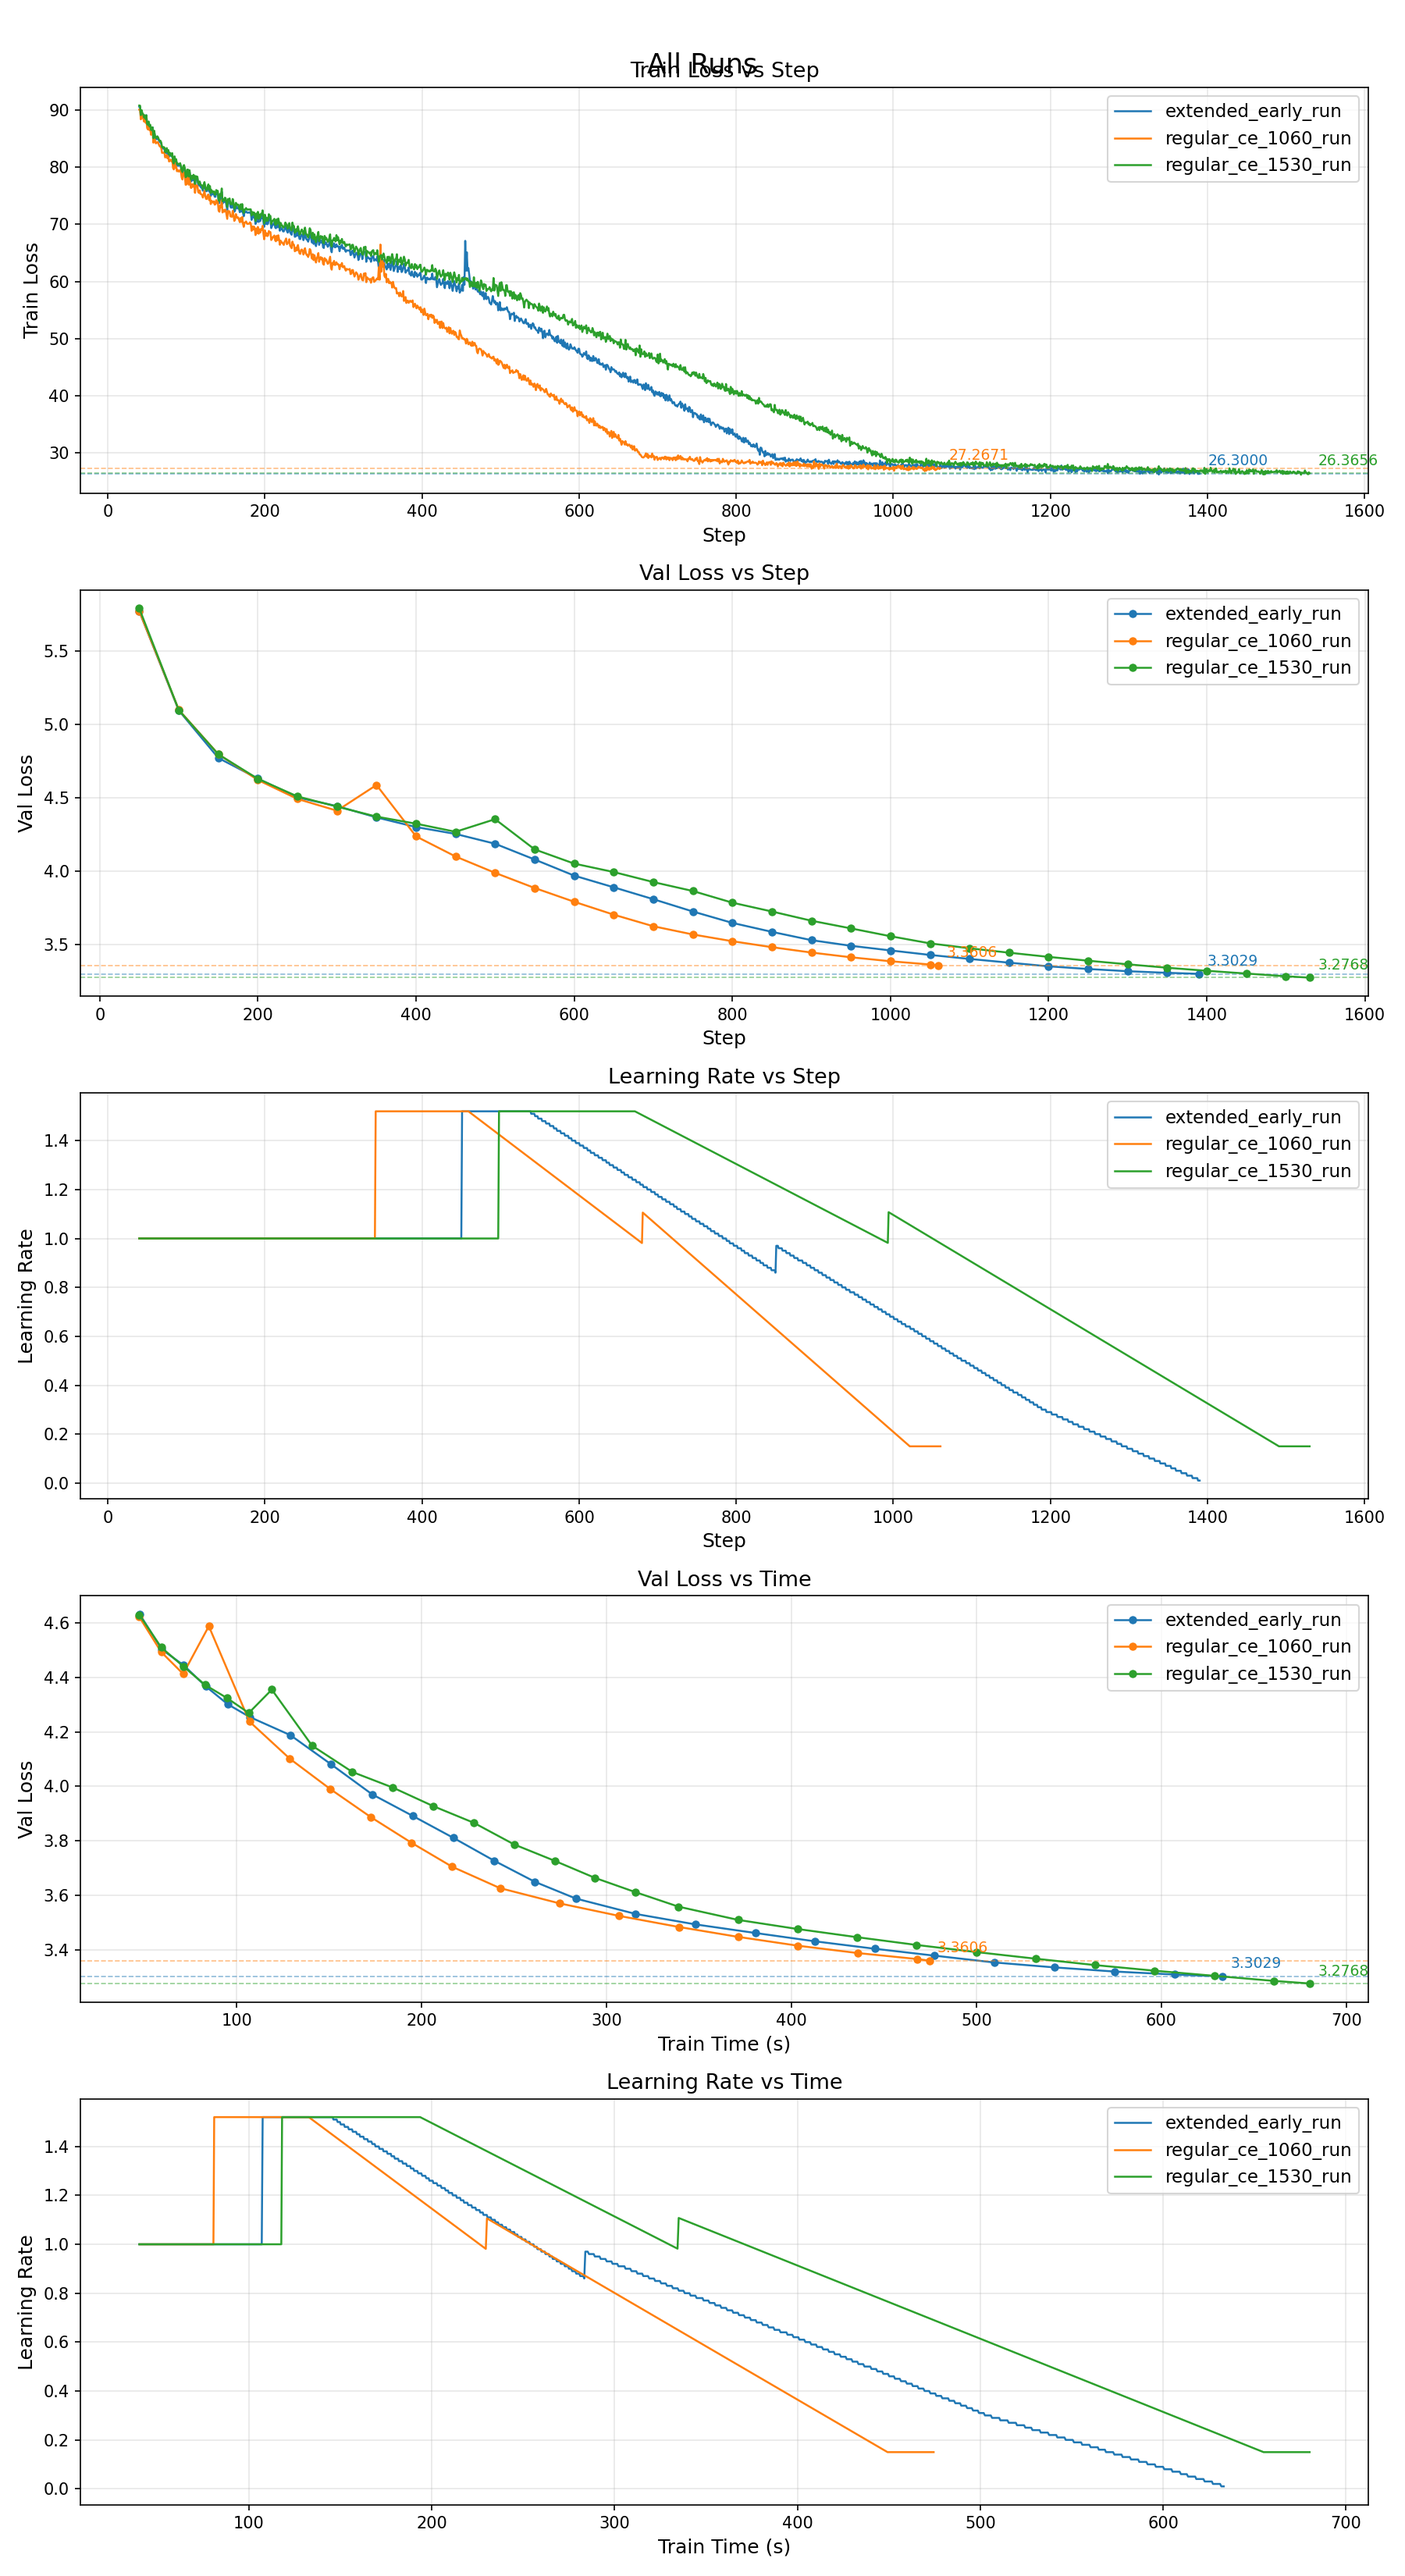
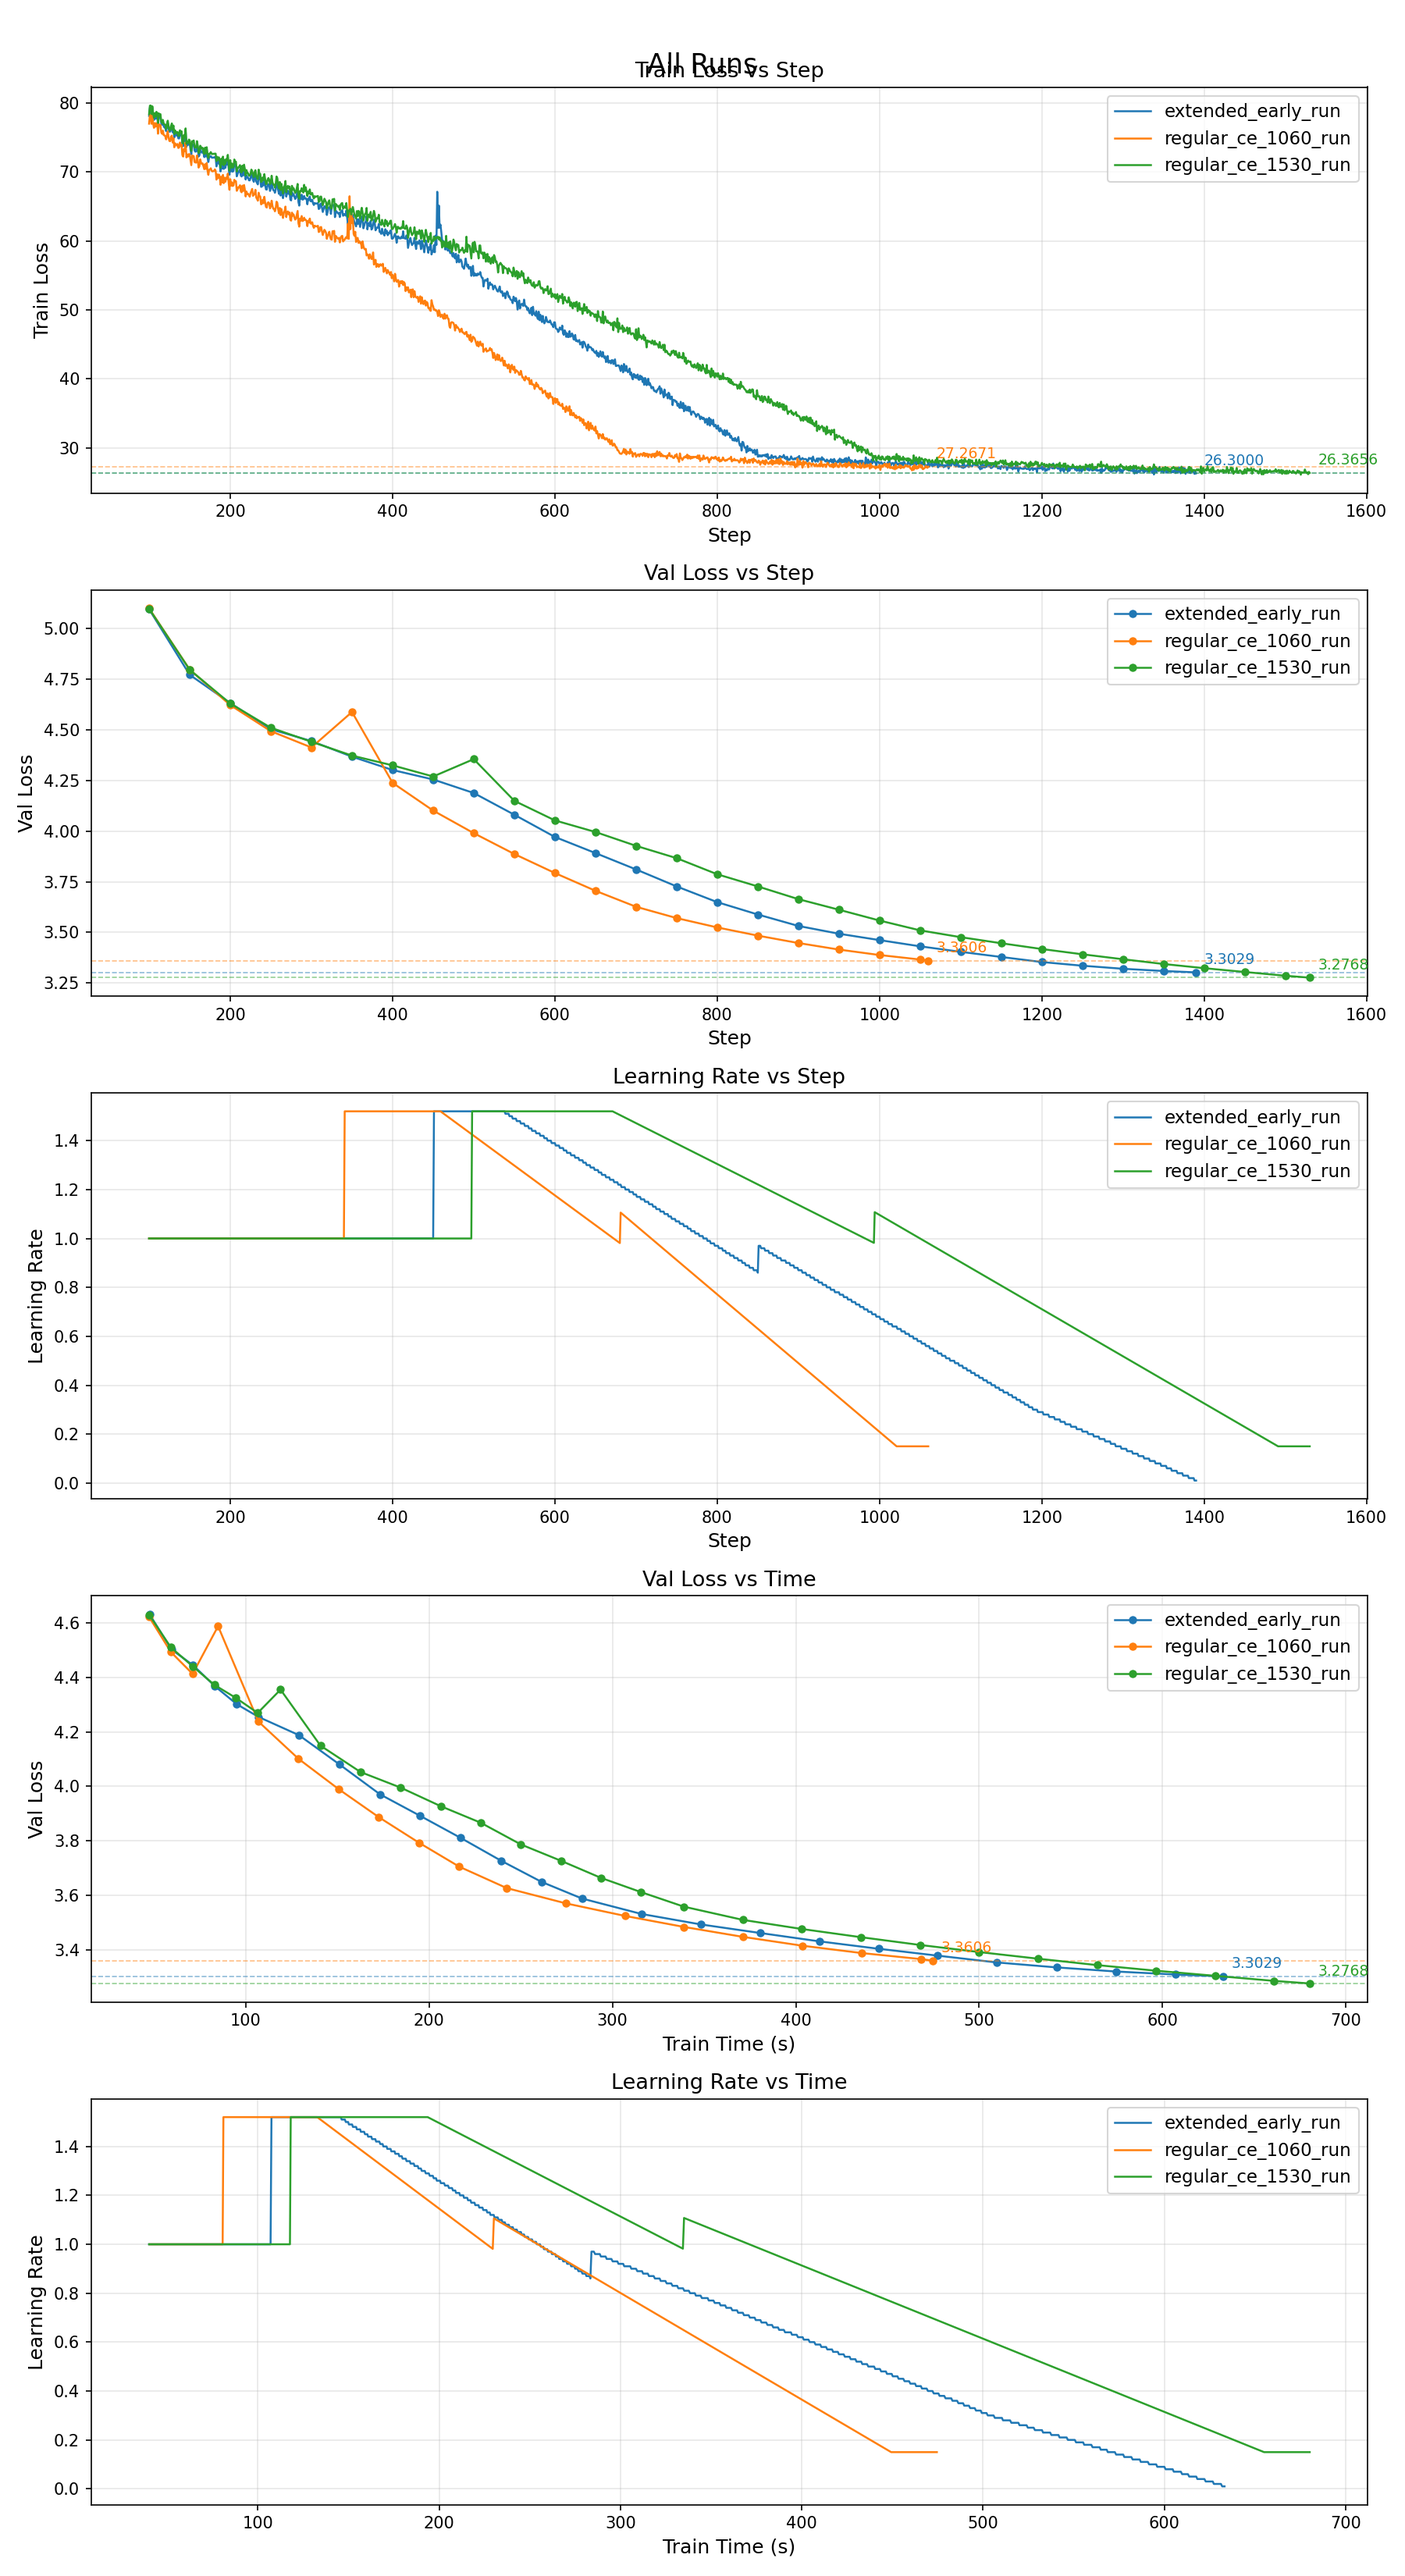
less steps yeah

diff --git a/utils/plot_val_vs_lr.py b/utils/plot_val_vs_lr.py
@@ -1,0 +1,74 @@
+"""Plot validation loss vs learning rate for comparing runs, split by stage."""
+
+import re
+import os
+import matplotlib.pyplot as plt
+
+LOG_DIR = os.path.join(os.path.dirname(__file__), "..", "logs")
+UTILS_DIR = os.path.join(os.path.dirname(__file__), "..", "utils")
+
+# (filename, label, stage_boundaries)
+# boundaries: [(start, end), ...] for stages w0, w1, w2, ext
+RUNS = [
+    ("regular_ce_1530_run.txt", "1530 ce", [(0, 497), (497, 993), (993, 1490), (1490, 1530)]),
+    ("regular_ce_1060_run.txt", "1060 ce", [(0, 340), (340, 680), (680, 1020), (1020, 1060)]),
+]
+
+STAGE_NAMES = ["w0", "w1", "w2", "ext"]
+
+
+def parse_log(filepath):
+    """Extract (step, val_loss, lr) tuples from log file."""
+    with open(filepath) as f:
+        lines = f.readlines()
+
+    data = []
+    for i, line in enumerate(lines):
+        # Match val_loss line: step:50/1530 val_loss:5.7883 ...
+        match = re.search(r"step:(\d+)/\d+\s+val_loss:([\d.]+)", line)
+        if match:
+            step = int(match.group(1))
+            val_loss = float(match.group(2))
+
+            # Get lr from next line (step+1)
+            if i + 1 < len(lines):
+                lr_match = re.search(r"lr:([\d.]+)", lines[i + 1])
+                if lr_match:
+                    lr = float(lr_match.group(1))
+                    data.append((step, val_loss, lr))
+
+    return data
+
+
+def filter_by_stage(data, start, end):
+    """Filter data points where start <= step < end."""
+    return [(step, val_loss, lr) for step, val_loss, lr in data if start <= step < end]
+
+
+fig, axes = plt.subplots(2, 2, figsize=(12, 10))
+axes = axes.flatten()
+
+for filename, label, boundaries in RUNS:
+    filepath = os.path.join(LOG_DIR, filename)
+    data = parse_log(filepath)
+
+    for idx, (start, end) in enumerate(boundaries):
+        stage_data = filter_by_stage(data, start, end)
+        if stage_data:
+            lrs = [d[2] for d in stage_data]
+            val_losses = [d[1] for d in stage_data]
+            axes[idx].plot(lrs, val_losses, marker="o", markersize=4, linewidth=1, label=label, alpha=0.7)
+
+for idx, name in enumerate(STAGE_NAMES):
+    axes[idx].set_xlabel("Learning Rate", fontsize=10)
+    axes[idx].set_ylabel("Validation Loss", fontsize=10)
+    axes[idx].set_title(f"Stage: {name}", fontsize=12)
+    axes[idx].legend()
+    axes[idx].grid(True, alpha=0.3)
+
+plt.suptitle("Validation Loss vs Learning Rate by Stage", fontsize=14)
+plt.tight_layout()
+
+out = os.path.join(UTILS_DIR, "val_vs_lr.png")
+plt.savefig(out, dpi=150)
+print(f"Saved {out}")

diff --git a/utils/plot_train_vs_lr.py b/utils/plot_train_vs_lr.py
@@ -1,0 +1,69 @@
+"""Plot train loss vs learning rate for comparing runs, split by stage."""
+
+import re
+import os
+import matplotlib.pyplot as plt
+
+LOG_DIR = os.path.join(os.path.dirname(__file__), "..", "logs")
+UTILS_DIR = os.path.join(os.path.dirname(__file__), "..", "utils")
+
+# (filename, label, stage_boundaries)
+# boundaries: [(start, end), ...] for stages w0, w1, w2, ext
+RUNS = [
+    ("regular_ce_1530_run.txt", "1530 ce", [(0, 497), (497, 993), (993, 1490), (1490, 1530)]),
+    ("regular_ce_1060_run.txt", "1060 ce", [(0, 340), (340, 680), (680, 1020), (1020, 1060)]),
+]
+
+STAGE_NAMES = ["w0", "w1", "w2", "ext"]
+
+
+def parse_log(filepath):
+    """Extract (step, train_loss, lr) tuples from log file."""
+    with open(filepath) as f:
+        lines = f.readlines()
+
+    data = []
+    for line in lines:
+        # Match train loss line: step:1/1530, ... train loss:151.5210,  lr:1.0
+        match = re.search(r"step:(\d+)/\d+,.*train loss:([\d.]+),\s+lr:([\d.]+)", line)
+        if match:
+            step = int(match.group(1))
+            train_loss = float(match.group(2))
+            lr = float(match.group(3))
+            data.append((step, train_loss, lr))
+
+    return data
+
+
+def filter_by_stage(data, start, end):
+    """Filter data points where start <= step < end."""
+    return [(step, train_loss, lr) for step, train_loss, lr in data if start < step < end]
+
+
+fig, axes = plt.subplots(2, 2, figsize=(12, 10))
+axes = axes.flatten()
+
+for filename, label, boundaries in RUNS:
+    filepath = os.path.join(LOG_DIR, filename)
+    data = parse_log(filepath)
+
+    for idx, (start, end) in enumerate(boundaries):
+        stage_data = filter_by_stage(data, start, end)
+        if stage_data:
+            lrs = [d[2] for d in stage_data]
+            train_losses = [d[1] for d in stage_data]
+            axes[idx].plot(lrs, train_losses, marker=".", markersize=2, linewidth=0.5, label=label, alpha=0.5)
+
+for idx, name in enumerate(STAGE_NAMES):
+    axes[idx].set_xlabel("Learning Rate", fontsize=10)
+    axes[idx].set_ylabel("Train Loss", fontsize=10)
+    axes[idx].set_title(f"Stage: {name}", fontsize=12)
+    axes[idx].legend()
+    axes[idx].grid(True, alpha=0.3)
+
+plt.suptitle("Train Loss vs Learning Rate by Stage", fontsize=14)
+plt.tight_layout()
+
+out = os.path.join(UTILS_DIR, "train_vs_lr.png")
+plt.savefig(out, dpi=150)
+print(f"Saved {out}")

diff --git a/src/s07_schedule.py b/src/s07_schedule.py
@@ -20,7 +20,7 @@ class Hyperparameters:
     # batch sizes
     val_batch_size: int = 4 * 64 * 1024 * 8
     # schedule
-    num_scheduled_iterations: int = 1190  # number of steps to complete lr and ws schedule
+    num_scheduled_iterations: int = 1257  # number of steps to complete lr and ws schedule
     num_extension_iterations: int = 200  # number of steps to continue training at final lr and ws
     # evaluation and logging
     run_id: str = f"{uuid.uuid4()}"
@@ -120,16 +120,15 @@ class TrainingSchedule:
         return lr
 
 # window_sizes are in units of `block_size` tokens (defined in TrainingManager)
-# Stage steps: [450, 400, 340] -> durations: [0.378151, 0.336134, 0.285714]
 TRAINING_STAGES = [
-    TrainingStage(duration=0.378151, train_max_seq_len=896, batch_size=8 * 2048 * 8, window_sizes=(1, 3), lr_mul=1.0,
+    TrainingStage(duration=0.395386, train_max_seq_len=896, batch_size=8 * 2048 * 8, window_sizes=(1, 3), lr_mul=1.0,
                   mtp_weights_start=[1.0, 0.5, 0.25], mtp_weights_end=[1.0, 0.5, 0.0]),
-    TrainingStage(duration=0.336134, train_max_seq_len=2048, batch_size=16 * 2048 * 8, window_sizes=(3, 7), lr_mul=1.52,  # (16/8)**0.6
+    TrainingStage(duration=0.334129, train_max_seq_len=2048, batch_size=16 * 2048 * 8, window_sizes=(3, 7), lr_mul=1.52,  # (16/8)**0.6
                   mtp_weights_start=[1.0, 0.5], mtp_weights_end=[1.0, 0.0]),
-    TrainingStage(duration=0.285714, train_max_seq_len=2048, batch_size=24 * 2048 * 8, window_sizes=(5, 11), lr_mul=1.73, lr_floor=0.30,  # (24/8)**0.5
+    TrainingStage(duration=0.270485, train_max_seq_len=2048, batch_size=24 * 2048 * 8, window_sizes=(5, 11), lr_mul=1.73, lr_floor=0.15,  # (24/8)**0.5
                   mtp_weights_start=[1.0], mtp_weights_end=[1.0]),
     # extension stage
-    TrainingStage(train_max_seq_len=2048, batch_size=24 * 2048 * 8, window_sizes=(6, 13), lr_mul=0.3, lr_floor=0.01,
+    TrainingStage(train_max_seq_len=2048, batch_size=24 * 2048 * 8, window_sizes=(6, 13), lr_mul=0.15, lr_floor=0.15,
                   mtp_weights_start=[1.0], mtp_weights_end=[1.0]),
 ]
 

diff --git a/utils/plot_lr_schedule.py b/utils/plot_lr_schedule.py
@@ -33,17 +33,17 @@ def compute_schedule_from_steps(stage_steps: list[int]) -> tuple[int, list[float
 
 
 # Define stage steps and compute schedule
-STAGE_STEPS = [450, 400, 340]
+STAGE_STEPS = [497, 420, 340]
 SCHEDULED_ITERATIONS, durations = compute_schedule_from_steps(STAGE_STEPS)
 
 # Mirror the stages from s07_schedule.py
 STAGES = [
     Stage(duration=durations[0], lr_mul=1.0, lr_floor=0.15),
     Stage(duration=durations[1], lr_mul=1.52, lr_floor=0.15),
-    Stage(duration=durations[2], lr_mul=1.73, lr_floor=0.30),
-    Stage(duration=None, lr_mul=0.3, lr_floor=0.01),  # extension
+    Stage(duration=durations[2], lr_mul=1.73, lr_floor=0.15),
+    Stage(duration=None, lr_mul=0.15, lr_floor=0.15),  # extension
 ]
-EXTENSION_ITERATIONS = 200
+EXTENSION_ITERATIONS = 40
 COOLDOWN_FRAC = 0.47
 
 TOTAL_STEPS = SCHEDULED_ITERATIONS + EXTENSION_ITERATIONS
